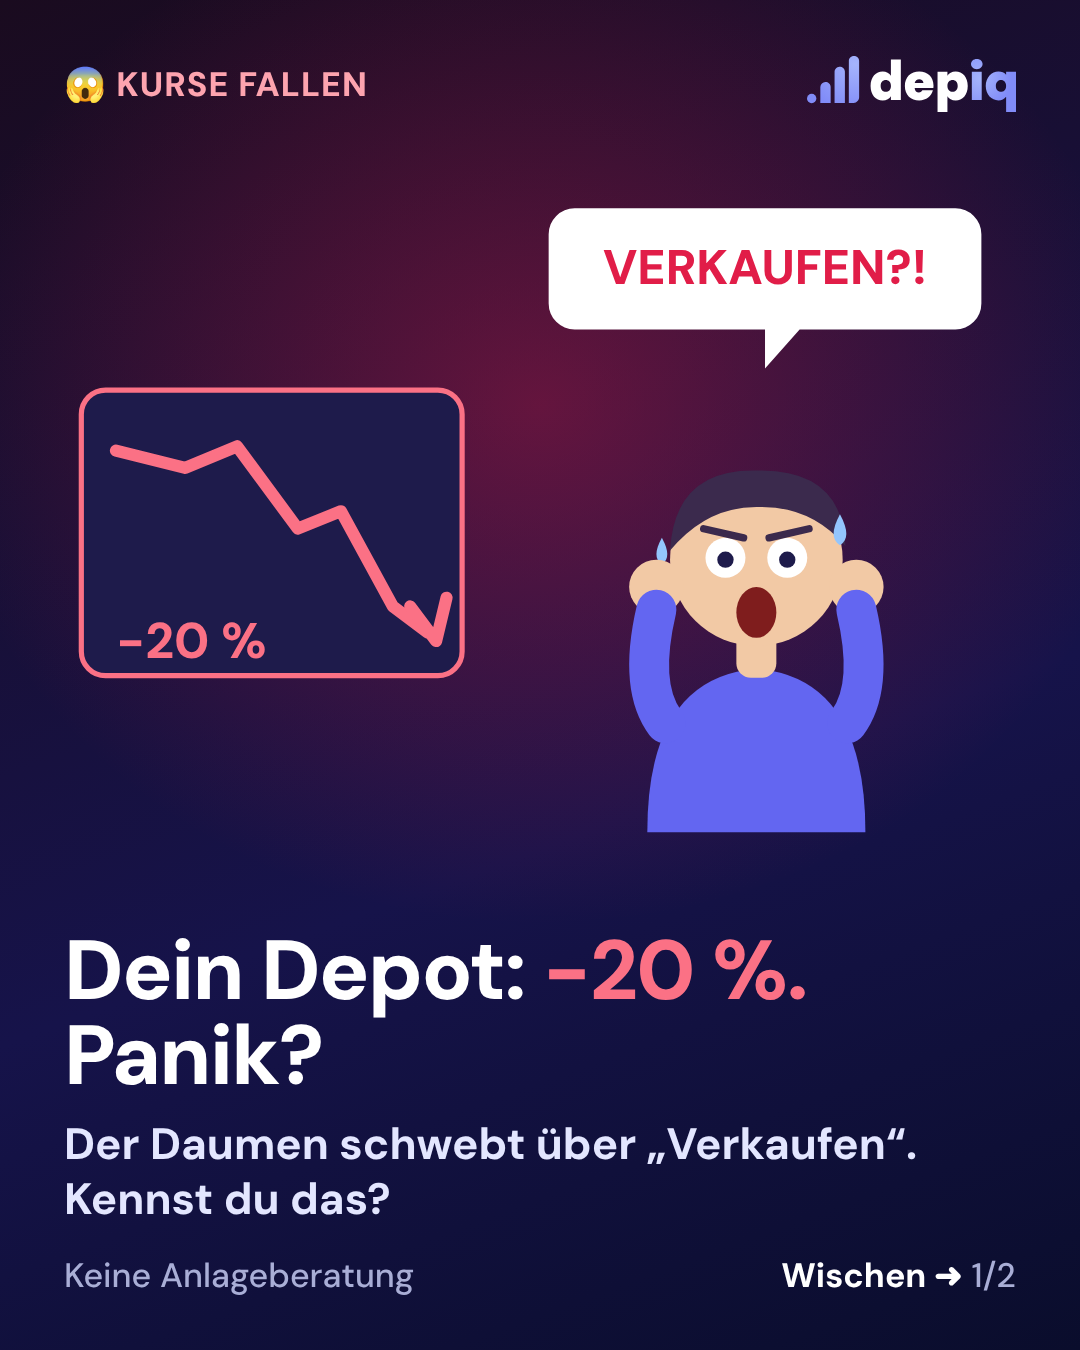
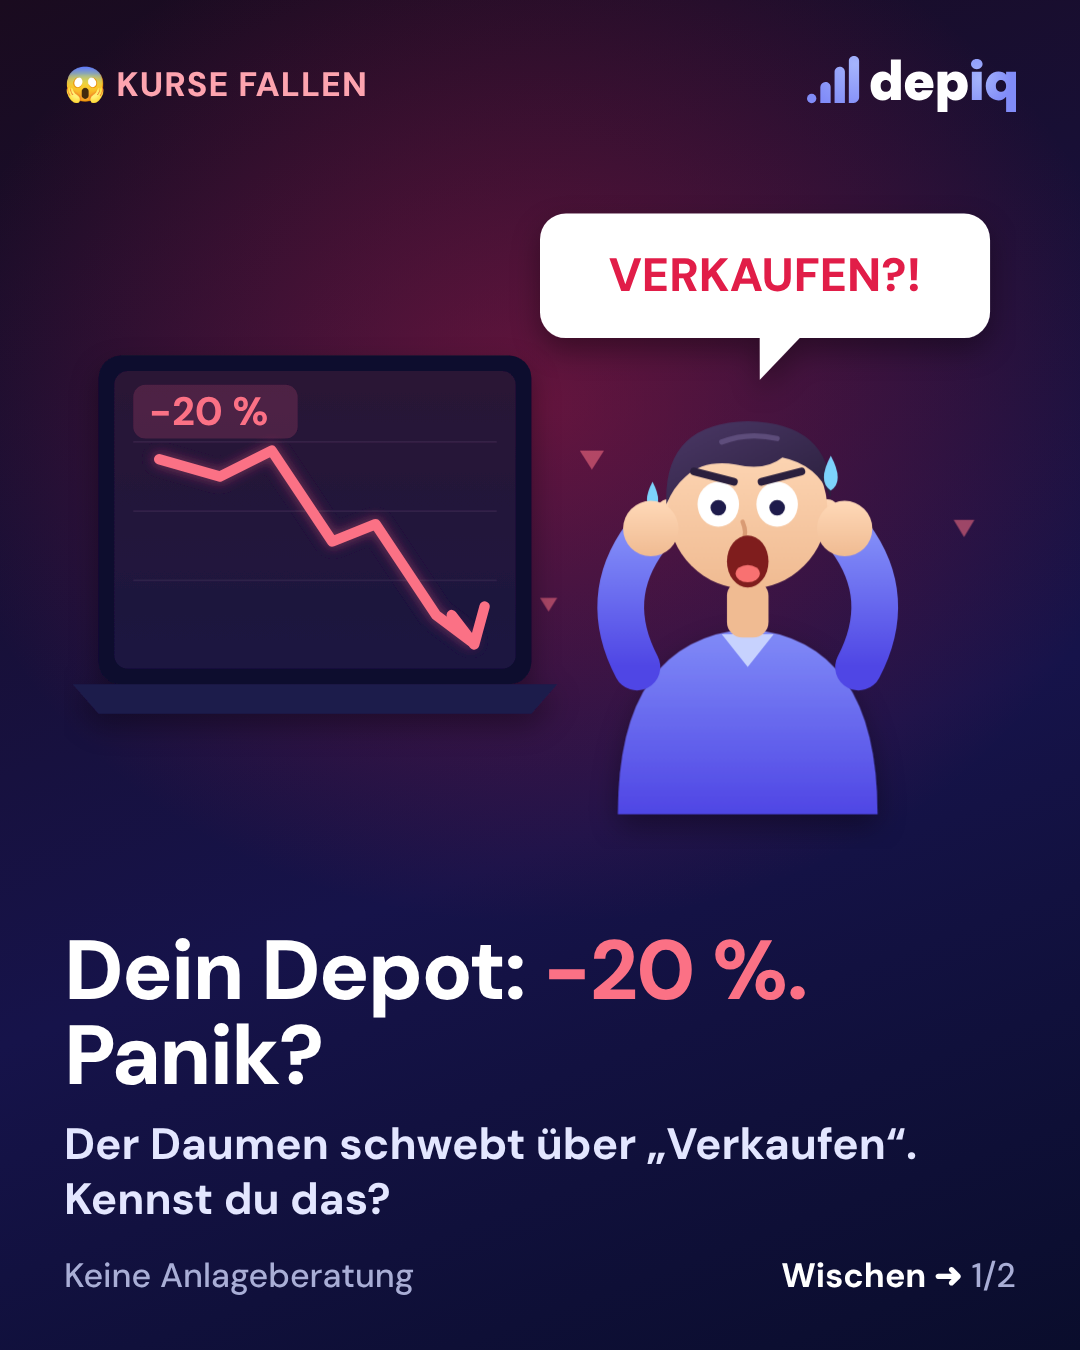
Emotions-Illustration: Laptop, Schatten, Verläufe, Figur überarbeitet
Claude-Session: https://claude.ai/code/session_01TCMRwfkoPUXt6cdHJjM9Lg

diff --git a/vorlage/szene.html b/vorlage/szene.html
@@ -30,65 +30,89 @@ p{font-size:44px;font-weight:600;line-height:1.25;color:#e3e6ff}
 <div class="text"><h1 id="titel"></h1><p id="text"></p></div>
 <div class="fuss"><span>Keine Anlageberatung</span><span id="nr"></span></div></div>
 <script>
-// Eigene Illustrationen (flach, in depiq-Farben). Figur: Person mit Handy.
-const haut='#f2c9a5', haar='#3b2a4d', hemd='#6366f1';
+// Eigene Illustrationen (flach mit weichen Verläufen und Schatten, depiq-Farben). Figur „Max“: Anleger am Schreibtisch.
+const DEFS = `<defs>
+  <linearGradient id="hemd" x1="0" y1="0" x2="0" y2="1"><stop offset="0" stop-color="#818cf8"/><stop offset="1" stop-color="#4f46e5"/></linearGradient>
+  <linearGradient id="haut" x1="0" y1="0" x2="0" y2="1"><stop offset="0" stop-color="#ffd9b8"/><stop offset="1" stop-color="#f0bb92"/></linearGradient>
+  <linearGradient id="haar" x1="0" y1="0" x2="1" y2="1"><stop offset="0" stop-color="#4b3866"/><stop offset="1" stop-color="#2a1f3d"/></linearGradient>
+  <linearGradient id="tisch" x1="0" y1="0" x2="0" y2="1"><stop offset="0" stop-color="#3b3486"/><stop offset="1" stop-color="#262061"/></linearGradient>
+  <linearGradient id="screenRot" x1="0" y1="0" x2="0" y2="1"><stop offset="0" stop-color="#2a1235"/><stop offset="1" stop-color="#1b1240"/></linearGradient>
+  <linearGradient id="screenGruen" x1="0" y1="0" x2="0" y2="1"><stop offset="0" stop-color="#0f2b3a"/><stop offset="1" stop-color="#131a45"/></linearGradient>
+  <filter id="schatten" x="-20%" y="-20%" width="140%" height="140%"><feDropShadow dx="0" dy="14" stdDeviation="16" flood-color="#000" flood-opacity=".35"/></filter>
+  <filter id="leuchtenRot"><feGaussianBlur stdDeviation="6"/></filter>
+</defs>`;
+const kopf = (gesicht) => `
+  <ellipse cx="-92" cy="128" rx="16" ry="22" fill="url(#haut)"/><ellipse cx="92" cy="128" rx="16" ry="22" fill="url(#haut)"/>
+  <circle cx="0" cy="118" r="92" fill="url(#haut)"/>
+  <path d="M-94 112 Q-98 18 0 16 Q98 18 96 104 Q80 66 40 58 Q20 74 -14 66 Q-50 60 -72 80 Q-86 92 -94 112Z" fill="url(#haar)"/>
+  <path d="M-30 40 Q0 28 34 36" stroke="#6b5a8a" stroke-width="6" fill="none" stroke-linecap="round" opacity=".7"/>
+  <path d="M-6 132 q6 14 0 22" stroke="#d99b74" stroke-width="5" fill="none" stroke-linecap="round"/>
+  ${gesicht}`;
 const figur = (stimmung) => {
-  const panik = stimmung==='panik';
+  if (stimmung === 'panik') return `
+  <g transform="translate(790,250)">
+    <path d="M-150 470 Q-150 268 0 256 Q150 268 150 470 Z" fill="url(#hemd)" filter="url(#schatten)"/>
+    <path d="M-30 262 L0 300 L30 262" fill="#c7d2fe"/>
+    <rect x="-24" y="200" width="48" height="66" rx="18" fill="#f0bb92"/>
+    ${kopf(`
+      <ellipse cx="-34" cy="112" rx="24" ry="26" fill="#fff"/><ellipse cx="34" cy="112" rx="24" ry="26" fill="#fff"/>
+      <circle cx="-34" cy="116" r="9" fill="#1e1b4b"/><circle cx="34" cy="116" r="9" fill="#1e1b4b"/>
+      <path d="M-62 74 L-16 86 M62 74 L16 86" stroke="#2a1f3d" stroke-width="9" stroke-linecap="round"/>
+      <ellipse cx="0" cy="178" rx="24" ry="30" fill="#7f1d1d"/><ellipse cx="0" cy="192" rx="14" ry="10" fill="#f87171"/>
+      <path d="M96 56 q16 30 0 40 q-16 -10 0 -40Z" fill="#7dd3fc"/>
+      <path d="M-110 86 q13 25 0 33 q-13 -8 0 -33Z" fill="#7dd3fc"/>`)}
+    <path d="M-128 300 Q-170 220 -118 150" stroke="url(#hemd)" stroke-width="54" fill="none" stroke-linecap="round"/>
+    <path d="M128 300 Q170 220 118 150" stroke="url(#hemd)" stroke-width="54" fill="none" stroke-linecap="round"/>
+    <circle cx="-112" cy="140" r="32" fill="url(#haut)"/><circle cx="112" cy="140" r="32" fill="url(#haut)"/>
+  </g>`;
   return `
-  <g transform="translate(800,300) scale(1.05)">
-    <!-- Körper -->
-    <path d="M-120 420 Q-120 250 0 240 Q120 250 120 420 Z" fill="${hemd}"/>
-    <!-- Hals/Kopf -->
-    <rect x="-22" y="190" width="44" height="60" rx="16" fill="${haut}"/>
-    <circle cx="0" cy="120" r="95" fill="${haut}"/>
-    <path d="M-95 110 Q-90 20 0 22 Q95 20 98 105 Q60 60 0 62 Q-55 62 -95 110Z" fill="${haar}"/>
-    ${panik ? `
-      <!-- Augen weit offen -->
-      <circle cx="-34" cy="118" r="22" fill="#fff"/><circle cx="34" cy="118" r="22" fill="#fff"/>
-      <circle cx="-34" cy="120" r="9" fill="#1e1b4b"/><circle cx="34" cy="120" r="9" fill="#1e1b4b"/>
-      <path d="M-58 86 L-14 96 M58 86 L14 96" stroke="${haar}" stroke-width="8" stroke-linecap="round"/>
-      <!-- Mund offen -->
-      <ellipse cx="0" cy="178" rx="22" ry="28" fill="#7f1d1d"/>
-      <!-- Schweißtropfen -->
-      <path d="M92 70 q14 26 0 34 q-14 -8 0 -34Z" fill="#93c5fd"/>
-      <path d="M-104 96 q12 22 0 29 q-12 -7 0 -29Z" fill="#93c5fd"/>
-      <!-- Hände am Kopf -->
-      <circle cx="-110" cy="150" r="30" fill="${haut}"/><circle cx="110" cy="150" r="30" fill="${haut}"/>
-      <path d="M-110 175 Q-130 260 -100 300" stroke="${hemd}" stroke-width="44" fill="none" stroke-linecap="round"/>
-      <path d="M110 175 Q130 260 100 300" stroke="${hemd}" stroke-width="44" fill="none" stroke-linecap="round"/>
-    ` : `
-      <!-- entspannte Augen -->
-      <path d="M-50 122 q16 -14 32 0 M18 122 q16 -14 32 0" stroke="#1e1b4b" stroke-width="7" fill="none" stroke-linecap="round"/>
-      <path d="M-26 168 q26 22 52 0" stroke="#7f1d1d" stroke-width="8" fill="none" stroke-linecap="round"/>
-      <!-- Tasse -->
-      <rect x="70" y="300" width="70" height="80" rx="12" fill="#fff"/>
-      <path d="M140 318 q30 8 0 40" stroke="#fff" stroke-width="10" fill="none"/>
-      <path d="M90 280 q10 -20 0 -40 M115 280 q10 -20 0 -40" stroke="#c7cbf2" stroke-width="6" fill="none" stroke-linecap="round"/>
-      <circle cx="100" cy="350" r="28" fill="${haut}"/>
-    `}
+  <g transform="translate(790,250)">
+    <path d="M-150 470 Q-150 268 0 256 Q150 268 150 470 Z" fill="url(#hemd)" filter="url(#schatten)"/>
+    <path d="M-30 262 L0 300 L30 262" fill="#c7d2fe"/>
+    <rect x="-24" y="200" width="48" height="66" rx="18" fill="#f0bb92"/>
+    ${kopf(`
+      <path d="M-54 116 q20 -16 40 0 M14 116 q20 -16 40 0" stroke="#1e1b4b" stroke-width="8" fill="none" stroke-linecap="round"/>
+      <ellipse cx="-58" cy="150" rx="16" ry="9" fill="#fb7185" opacity=".35"/><ellipse cx="58" cy="150" rx="16" ry="9" fill="#fb7185" opacity=".35"/>
+      <path d="M-30 166 q30 26 60 0" stroke="#7f1d1d" stroke-width="9" fill="none" stroke-linecap="round"/>`)}
+    <path d="M118 320 Q150 380 100 400" stroke="url(#hemd)" stroke-width="54" fill="none" stroke-linecap="round"/>
+    <rect x="60" y="356" width="78" height="86" rx="14" fill="#fff" filter="url(#schatten)"/>
+    <path d="M138 372 q34 10 0 46" stroke="#fff" stroke-width="12" fill="none"/>
+    <circle cx="80" cy="400" r="30" fill="url(#haut)"/>
+    <path d="M86 340 q14 -24 0 -48 M112 340 q14 -24 0 -48" stroke="#c7cbf2" stroke-width="7" fill="none" stroke-linecap="round" opacity=".8"/>
   </g>`;
 };
+const laptop = (ton) => {
+  const rot = ton === 'rot';
+  const farbe = rot ? '#fb7185' : '#5eead4';
+  const linie = rot ? '70,120 140,140 200,110 270,215 320,195 390,300 430,330' : '70,320 130,270 180,300 240,210 290,240 350,150 430,100';
+  const pfeil = rot ? 'M408 300 l26 34 l12 -44' : 'M396 92 l38 6 l-10 38';
+  return `
+  <g transform="translate(40,190)" filter="url(#schatten)">
+    <rect x="0" y="0" width="500" height="380" rx="26" fill="#0b0f2e"/>
+    <rect x="18" y="18" width="464" height="344" rx="16" fill="url(#${rot?'screenRot':'screenGruen'})"/>
+    <g stroke="#ffffff" stroke-opacity=".07" stroke-width="2">
+      <line x1="40" y1="100" x2="460" y2="100"/><line x1="40" y1="180" x2="460" y2="180"/><line x1="40" y1="260" x2="460" y2="260"/>
+    </g>
+    <polyline points="${linie}" fill="none" stroke="${farbe}" stroke-width="16" stroke-linejoin="round" stroke-linecap="round" opacity=".35" filter="url(#leuchtenRot)"/>
+    <polyline points="${linie}" fill="none" stroke="${farbe}" stroke-width="12" stroke-linejoin="round" stroke-linecap="round"/>
+    <path d="${pfeil}" fill="none" stroke="${farbe}" stroke-width="12" stroke-linecap="round" stroke-linejoin="round"/>
+    <rect x="40" y="34" width="${rot?190:200}" height="62" rx="14" fill="${farbe}" opacity=".18"/>
+    <text x="58" y="80" font-family="DM Sans" font-weight="800" font-size="46" fill="${farbe}">${rot?'−20 %':'Wieder ↑'}</text>
+    <path d="M-30 380 h560 l-30 34 h-500z" fill="#1e1b4b"/>
+  </g>`;
+};
+const blase = (text, farbe) => `
+  <g filter="url(#schatten)">
+    <path d="M580 26 h460 a30 30 0 0 1 30 30 v84 a30 30 0 0 1 -30 30 h-190 l-46 48 v-48 h-224 a30 30 0 0 1 -30 -30 v-84 a30 30 0 0 1 30 -30Z" fill="#fff"/>
+  </g>
+  <text x="810" y="116" text-anchor="middle" font-family="DM Sans" font-weight="800" font-size="54" fill="${farbe}">${text}</text>`;
+const deko = (ton) => ton === 'rot'
+  ? `<g fill="#fb7185" opacity=".55"><path d="M610 300 l14 22 l-28 0z" transform="rotate(180 610 311)"/><path d="M1040 380 l12 20 l-24 0z" transform="rotate(180 1040 390)"/><path d="M560 470 l10 16 l-20 0z" transform="rotate(180 560 478)"/></g>`
+  : `<g fill="#5eead4" opacity=".6"><circle cx="600" cy="320" r="8"/><circle cx="1050" cy="400" r="10"/><circle cx="570" cy="470" r="6"/></g>
+     <g transform="translate(1000,560)"><rect x="-30" y="40" width="60" height="70" rx="10" fill="#4f46e5"/><path d="M0 40 Q-40 -10 -10 -60 Q0 -10 0 40 Q10 -30 40 -50 Q30 0 0 40" fill="#14b8a6"/></g>`;
 const BILDER = {
-  panik: `<svg viewBox="0 0 1100 760">
-    <!-- Bildschirm mit Kurssturz -->
-    <rect x="20" y="230" width="440" height="330" rx="28" fill="#1e1b4b" stroke="#fb7185" stroke-width="6"/>
-    <polyline points="60,300 140,320 200,295 270,390 320,370 380,480 420,510" fill="none" stroke="#fb7185" stroke-width="14" stroke-linejoin="round" stroke-linecap="round"/>
-    <path d="M400 480 l30 40 l12 -50" fill="none" stroke="#fb7185" stroke-width="14" stroke-linecap="round" stroke-linejoin="round"/>
-    <text x="60" y="540" font-family="DM Sans" font-weight="800" font-size="58" fill="#fb7185">−20 %</text>
-    ${figur('panik')}
-    <!-- Sprechblase -->
-    <path d="M590 20 h440 a30 30 0 0 1 30 30 v80 a30 30 0 0 1 -30 30 h-180 l-40 45 v-45 h-220 a30 30 0 0 1 -30 -30 v-80 a30 30 0 0 1 30 -30Z" fill="#fff"/>
-    <text x="810" y="108" text-anchor="middle" font-family="DM Sans" font-weight="800" font-size="56" fill="#e11d48">VERKAUFEN?!</text>
-  </svg>`,
-  ruhe: `<svg viewBox="0 0 1100 760">
-    <rect x="20" y="230" width="440" height="330" rx="28" fill="#1e1b4b" stroke="#5eead4" stroke-width="6"/>
-    <polyline points="60,490 120,440 170,480 230,390 280,420 340,330 420,280" fill="none" stroke="#5eead4" stroke-width="14" stroke-linejoin="round" stroke-linecap="round"/>
-    <path d="M385 270 l40 8 l-12 40" fill="none" stroke="#5eead4" stroke-width="14" stroke-linecap="round" stroke-linejoin="round"/>
-    <text x="60" y="540" font-family="DM Sans" font-weight="800" font-size="52" fill="#5eead4">Und wieder ↑</text>
-    ${figur('ruhe')}
-    <path d="M590 20 h440 a30 30 0 0 1 30 30 v80 a30 30 0 0 1 -30 30 h-180 l-40 45 v-45 h-220 a30 30 0 0 1 -30 -30 v-80 a30 30 0 0 1 30 -30Z" fill="#fff"/>
-    <text x="810" y="108" text-anchor="middle" font-family="DM Sans" font-weight="800" font-size="52" fill="#0d9488">Ich bleib dabei.</text>
-  </svg>`
+  panik: `<svg viewBox="0 0 1100 760">${DEFS}${deko('rot')}${laptop('rot')}${figur('panik')}${blase('VERKAUFEN?!','#e11d48')}</svg>`,
+  ruhe:  `<svg viewBox="0 0 1100 760">${DEFS}${deko('gruen')}${laptop('gruen')}${figur('ruhe')}${blase('Ich bleib dabei.','#0d9488')}</svg>`
 };
 const N = +(new URLSearchParams(location.search).get('seite') || 1);
 window.zeichne = d => {
